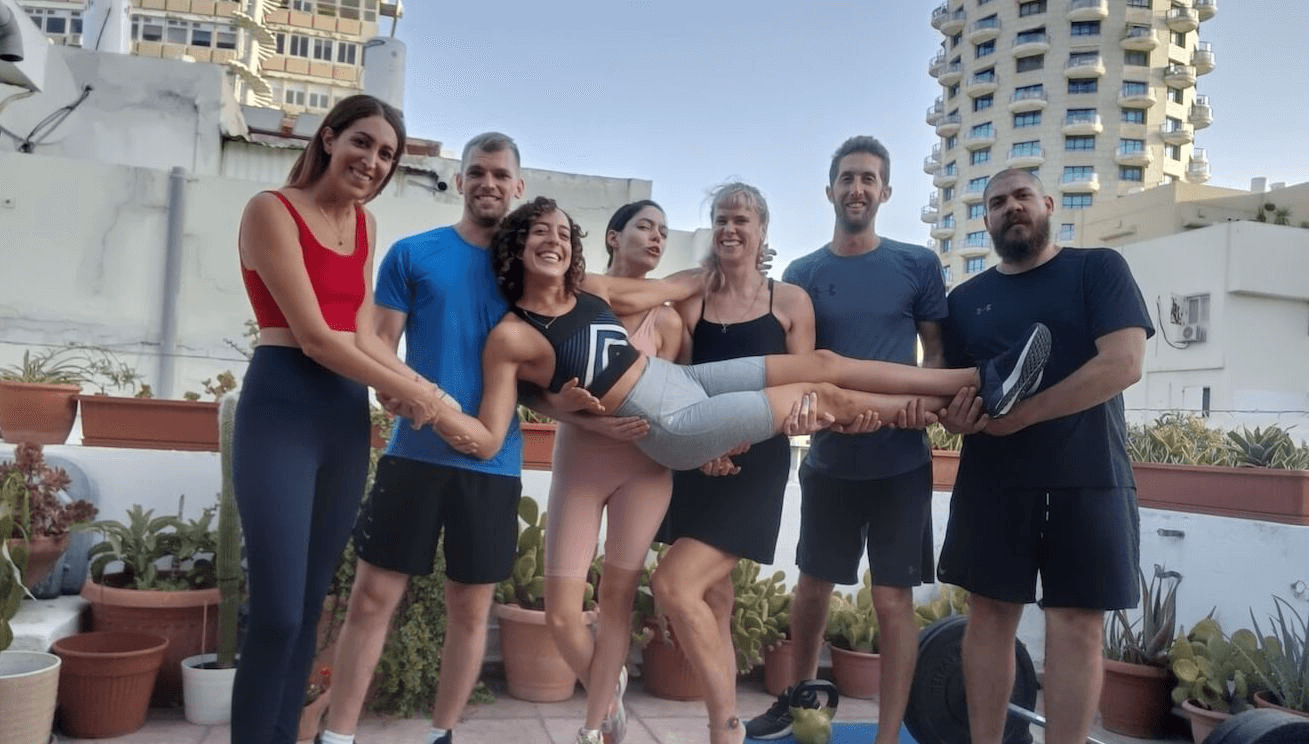
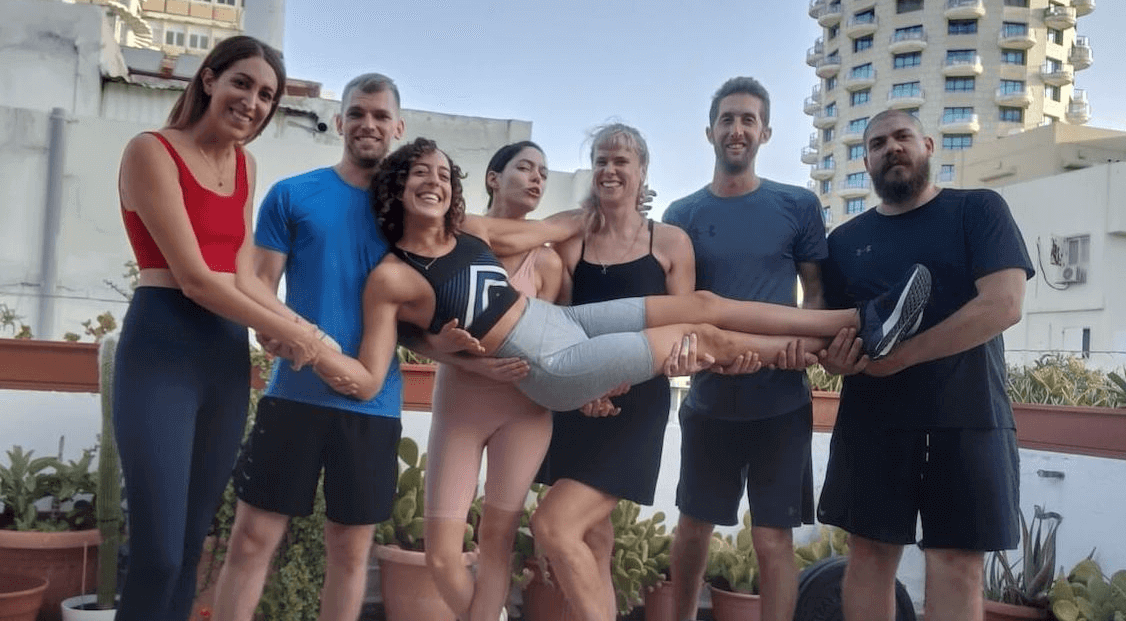
image compressions, calendly js on click, small a11y fixes

diff --git a/src/scripts/main.js b/src/scripts/main.js
@@ -49,81 +49,24 @@
         });
     }
 
+    // Calendly
+    document.querySelector('.open-calendly').addEventListener('click', function() {    
+        const script = document.createElement('script');
+        script.src = 'https://assets.calendly.com/assets/external/widget.js';
+        document.body.appendChild(script);
 
-    // Contact Overlay
-    // const formEl = document.querySelector('.form-overlay'),
-    //     formRevealer = new RevealFx(formEl),
-    //     closeFormElm = formEl.querySelector('.close-form-overlay');
+        document.head.insertAdjacentHTML('afterbegin', '<link rel="stylesheet" href="https://assets.calendly.com/assets/external/widget.css">');
 
-    // document.querySelector('.open-overlay button').addEventListener('click', function() {
-    //     formEl.classList.add('to-position');
-    //     document.documentElement.classList.add('no-scroll');
-    //     document.querySelector('.form-inner').style.height = window.innerHeight + "px";
+        const promise = new Promise((resolve, reject) => {
+            script.addEventListener('load', resolve);
+            script.addEventListener('error', reject);
+        });
 
-    //     setTimeout(() => {
-    //         formRevealer.reveal({
-    //             bgcolor: getComputedStyle(formEl).getPropertyValue('--color-third'),
-    //             direction: 'bt',
-    //             duration: 400,
-    //             onCover: function(contentEl, revealerEl) {
-    //                 formEl.classList.add('overlay-open');
-    //                 contentEl.style.opacity = 1;
-    //             },
-    //             onComplete: function() {
-    //                 closeFormElm.addEventListener('click', closeForm);                    
-    //             }
-    //         });
-    //     }, 10);
-    // });
-
-    // function closeForm() {
-    //     closeFormElm.removeEventListener('click', closeForm);
-    //     formEl.classList.remove('overlay-open');
-    //     document.documentElement.classList.remove('no-scroll');
-    //     formRevealer.reveal({
-    //         bgcolor: getComputedStyle(formEl).getPropertyValue('--color-third'),
-    //         direction: 'tb',
-    //         duration: 400, 
-    //         onCover: function(contentEl, revealerEl) {
-    //             formEl.classList.remove('overlay-open');
-    //             contentEl.style.opacity = 0;
-    //         },
-    //         onComplete: function() {
-    //             formEl.classList.remove('to-position');
-    //         }
-    //     });
-    // }
-
-    // form overlay resize
-    // window.addEventListener("resize", handleResize);
-    // function handleResize() {
-    //     document.querySelector('.form-inner').style.height = window.innerHeight + "px";
-    // }
-
-    // form
-    const handleSubmit = (event) => {
-        event.preventDefault();      
-        const myForm = event.target;
-        const formData = new FormData(myForm);
-        const contactBoxElm = document.querySelector('.contact-message');
-        
-        fetch("/", {
-            method: "POST",
-            headers: { "Content-Type": "application/x-www-form-urlencoded" },
-            body: new URLSearchParams(formData).toString(),
-        })
-        .then(() => {  
-            closeForm();
-
-            setTimeout(() => {
-                contactBoxElm.classList.add('active');
-                setTimeout(() => {
-                    contactBoxElm.classList.remove('active');
-                }, 3000);                
-            }, 900);
-        })
-        .catch((error) => alert(error));
-    };
-
-    formEl.addEventListener("submit", handleSubmit);    
+        promise.then(() => {
+            console.log('Script loaded successfully');
+            Calendly.showPopupWidget('https://calendly.com/worth-it-studio/15min?hide_landing_page_details=1&background_color=ffffff&text_color=413C58&primary_color=4dbedd');return false;
+        }).catch(() => {
+            console.log('Failed to load script');
+        });        
+    });
 })();

diff --git a/src/sass/_buttons.scss b/src/sass/_buttons.scss
@@ -55,41 +55,41 @@ button {
                 border-radius: 8px;
                 transition: transform 0.3s;
             }
-
-            &::before {
-                position: absolute;
-                top: 0;
-                left: 0;
-                z-index: -1;            
-                width: 100%;
-                height: 100%;
-                display: inline-flex;
-                align-items: center;
-                justify-content: center;
-                color: var(--color-white);
-                background-color: var(--color-main);
-                content: attr(data-hover);
-                @include transition(all, 0.3s, ease);
-                transform: translateX(-25%);
-            }
-
-            &:hover,
-            &:focus {
-                color: var(--color-white);
-
-                button,
-                div {
-                    transform: translateX(100%);
-                }
-            }
-
-            &:hover,
-            &:focus {
+            @include mq($tablet) {
                 &::before {
-                    transform: translateX(0%);
+                    position: absolute;
+                    top: 0;
+                    left: 0;                          
+                    width: 100%;
+                    height: 100%;
+                    display: inline-flex;
+                    align-items: center;
+                    justify-content: center;
+                    color: var(--color-white);
+                    background-color: var(--color-main);
+                    content: attr(data-hover);
+                    @include transition(all, 0.3s, ease);
+                    transform: translateX(-25%);
+                    z-index: -1;
+                }
+    
+                &:hover,
+                &:focus {
+                    color: var(--color-white);
+    
+                    button,
+                    div {
+                        transform: translateX(100%);
+                    }
+                }
+    
+                &:hover,
+                &:focus {
+                    &::before {
+                        transform: translateX(0%);
+                    }
                 }
             }
-
         }
     }
 }

diff --git a/src/sass/_sitenav.scss b/src/sass/_sitenav.scss
@@ -36,7 +36,7 @@
         }
 
         .whatsapp-icon {
-            margin-inline-start: 8px;
+            margin-inline-start: 12px;
         }        
 
         @include mq($tablet) {

diff --git a/src/sass/_typography.scss b/src/sass/_typography.scss
@@ -27,6 +27,7 @@ h2 {
 
 h3 {
 	font-size: $tdbc-h3-font-size;
+    font-size: unquote("min(max(1.5rem, 2vw), #{$tdbc-h2-font-size})");
 }
 
 h4 {
